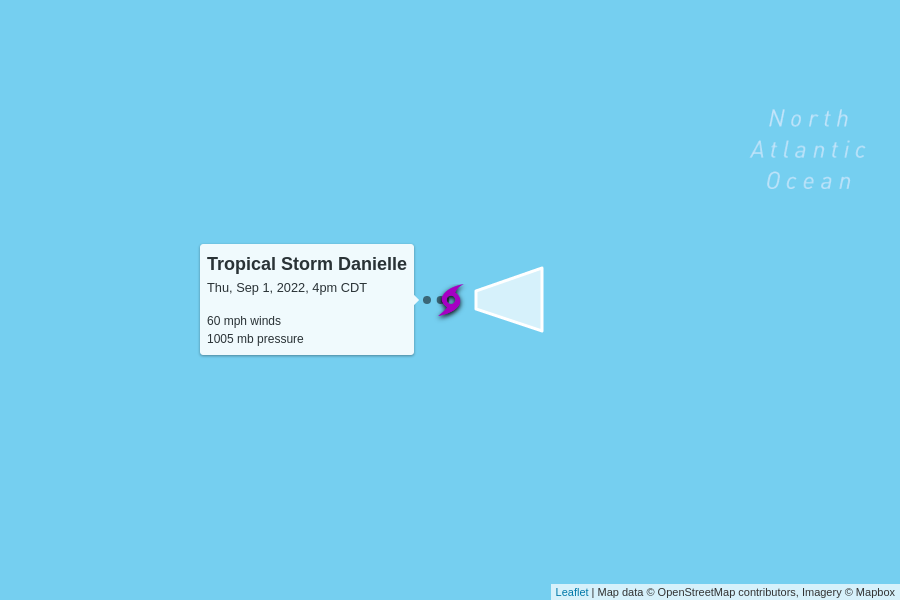
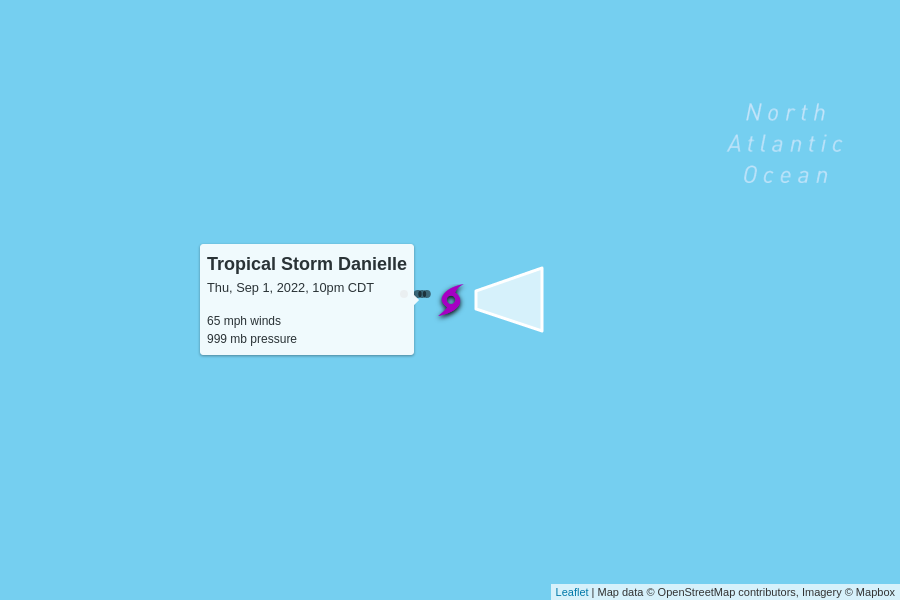
automatic update

diff --git a/docs/index.html b/docs/index.html
@@ -100,7 +100,7 @@
         <td colspan="6" class="storm category-0" >
           <h2>
             Tropical Storm Danielle
-            <p class="updated">last updated <span data-time>2022-09-01T21:00:00.000Z</span></p>
+            <p class="updated">last updated <span data-time>2022-09-02T03:00:00.000Z</span></p>
           </h2>
         </td>
       </tr>
@@ -115,8 +115,8 @@
       </tr>
       <tr>
         <td class="spacer"></td>
-        <td>60 mph</td>
-        <td>1005 mb</td>
+        <td>65 mph</td>
+        <td>999 mb</td>
         <td>
           2 mph to the east
           <br/>
